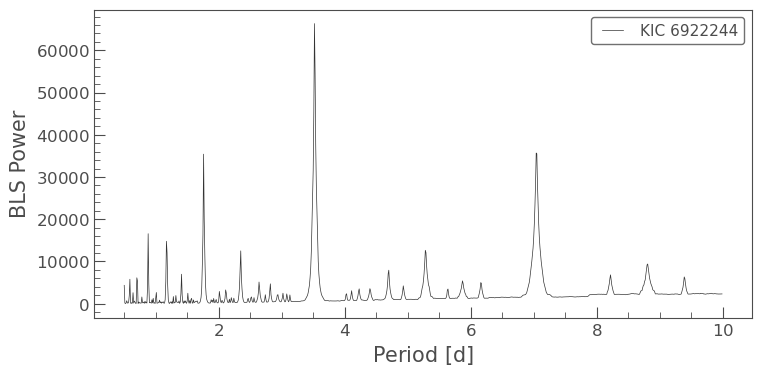
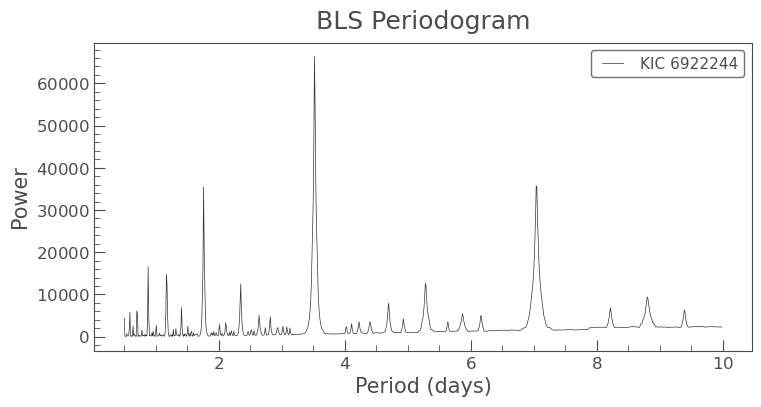
Explained folding

diff --git a/analysis/textanalysis.md b/analysis/textanalysis.md
@@ -10,12 +10,28 @@ To begin looking whether or not this star had a transiting exoplanet, I first se
 
 A periodogram (for lightkurve) can calculate the power of different frequencies or periods in a stellar light curve, essentially allowing us to find repeating patterns, which is useful when trying to find variable stars, exoplanets, etc.
 
-However, it is important to note that there are two methods we can use for a periodogram: Box Least Squares Method (bls) or Lomb-Scragle. Before we dive into the definition, let's see what happens when we use each! When we used the lomb-scargle method, we see that it peaks at approximately 1.7600 days, while the BLS peaks at around 3.5200, which we also printed in the terminal. We can see that the lomb-scargle periodogram also has a lot of strange peaks, not showing a consistent high peak.
+However, it is important to note that there are two methods astronomers can use for a periodogram: Box Least Squares Method (BLS) or Lomb-Scragle. Before I dive into the definition, let's see what happens when I use each method! When I used the lomb-scargle method, I noticed that it peaks at approximately 1.7600 days, while the BLS peaks at around 3.5200, which I also printed in the terminal. I can see that the lomb-scargle periodogram also has a lot of strange peaks, not showing a consistent "high peak" like the BLS.
 
 The Lomb–Scargle method asks, “At what frequency does a sinusoidal model best fit the data?” It tests different frequencies and measures how well a sinusoidal model explains the observations at each one. A higher peak indicates stronger evidence for a periodic signal at that frequency. Because Lomb–Scargle searches for sinusoidal variations rather than transit-shaped dips, it can produce multiple prominent peaks from harmonics of the underlying signal, causing it to be hard to figure out when the planet transits. 
 
+However, the box least sqaures method is also an algorthium using to find box-shaped dips (repeating) in a star's birghtness over time. It tests multiple trial orbital periods, phase-folding the lightcurve over that period, and fitting an upside-down "box" model to find periodic planetary transits. If the a "trial" period (period that is being tested by the BLS) can be matched with the true orbital period, the transit will produce a strong spike on the periodogram, which is why there is a huge peak at 3.5200 days (the period).
+
+So, the reason the BLS method is used rather than lomb-scargle as transiting exoplanets create a flat-bottomed, abrupt dip, and the BLS matches this geometric shape. The Lomb-Scargle periodogram looks for wave-like (also known as sinusoidal variations), which are better for finding variable stars. 
+
+To conclude, that is why I am going to use the BLS method for the rest of the data that I will be analyzing.
+
+*need to explain period_at_max_power
+
+## Folding the lightcurve
+
+Understanding why transiting exoplanets rely on BLS rather then the Lomb-Scarlge method, I began to test out "folding" the lightcurve. Folding the Lightkurve stacks the light-curve cycles on top of one another using a specified orbital period. Here, I use the period with the highest power in the periodogram, approximately 3.520 days, because it is the period that best explains the repeating pattern in the data. By folding the data at this period, observations from different orbital cycles line up, making the repeated transit easier to see and allowing me to analyze its shape and depth more clearly. 
+
+What happens when I plot the light curve? The resulting graph shows a clear, repeated dip in the brightness of exoplanet KIC 6922244, which is consistent with a transit. When I folded the light curve, Lightkurve used the orbital period I found earlier, 3.520 days, to transform the observation times into orbital phase. This allows measurements from different orbital cycles to be placed at the same phase and compared with one another. The result is a much clearer view of the transit because observations from multiple cycles are effectively stacked together. The decrease in normalized flux is consistent with a planet passing in front of its host star (Kepler 8-b) and blocking a small amount of starlight.
 
 
 
 
 
+
+
+ 
